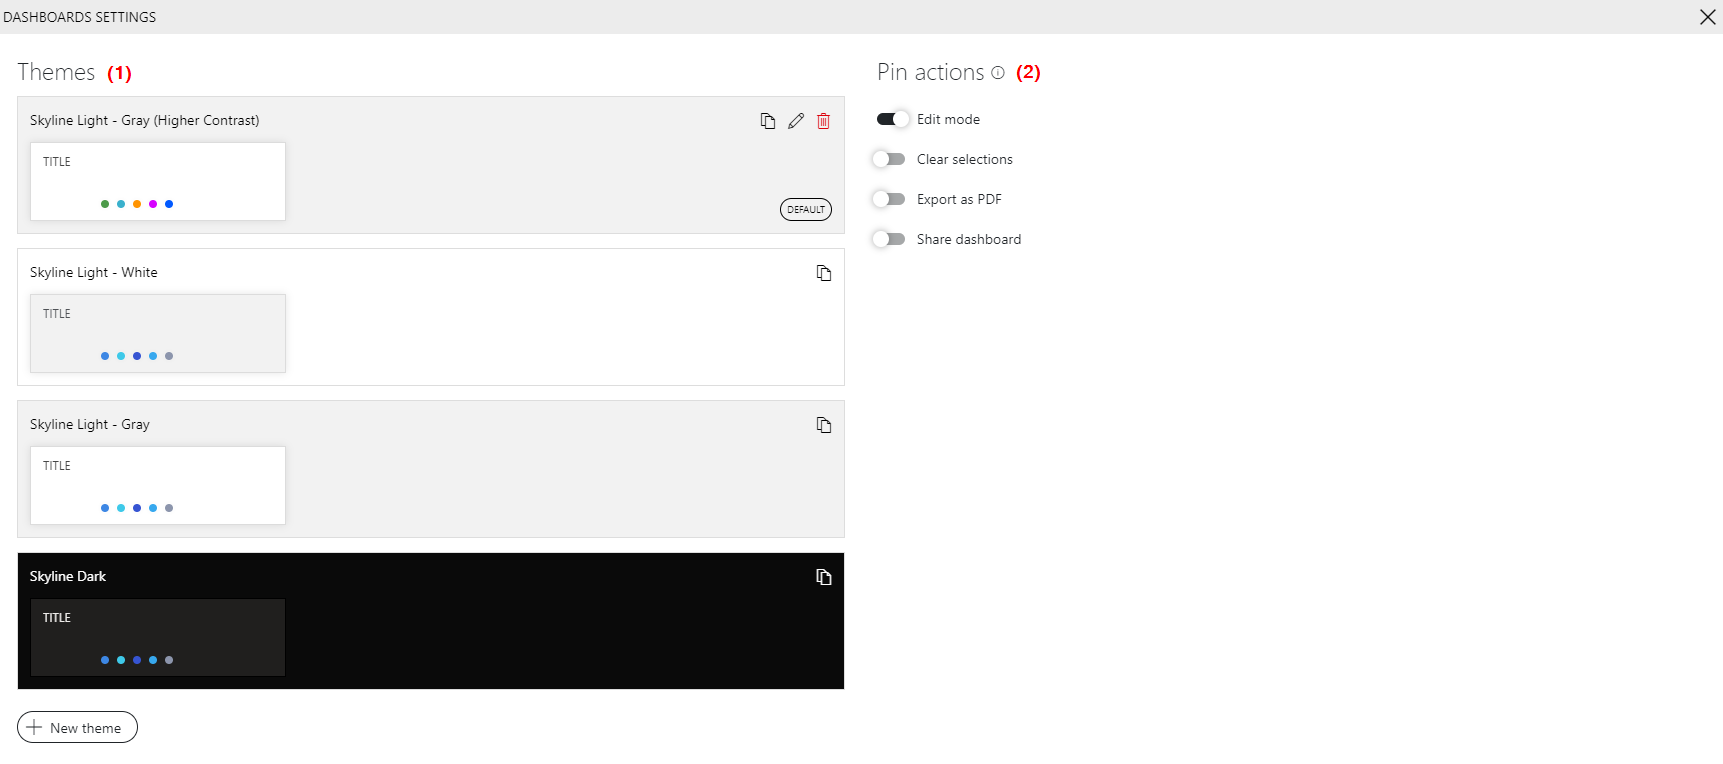
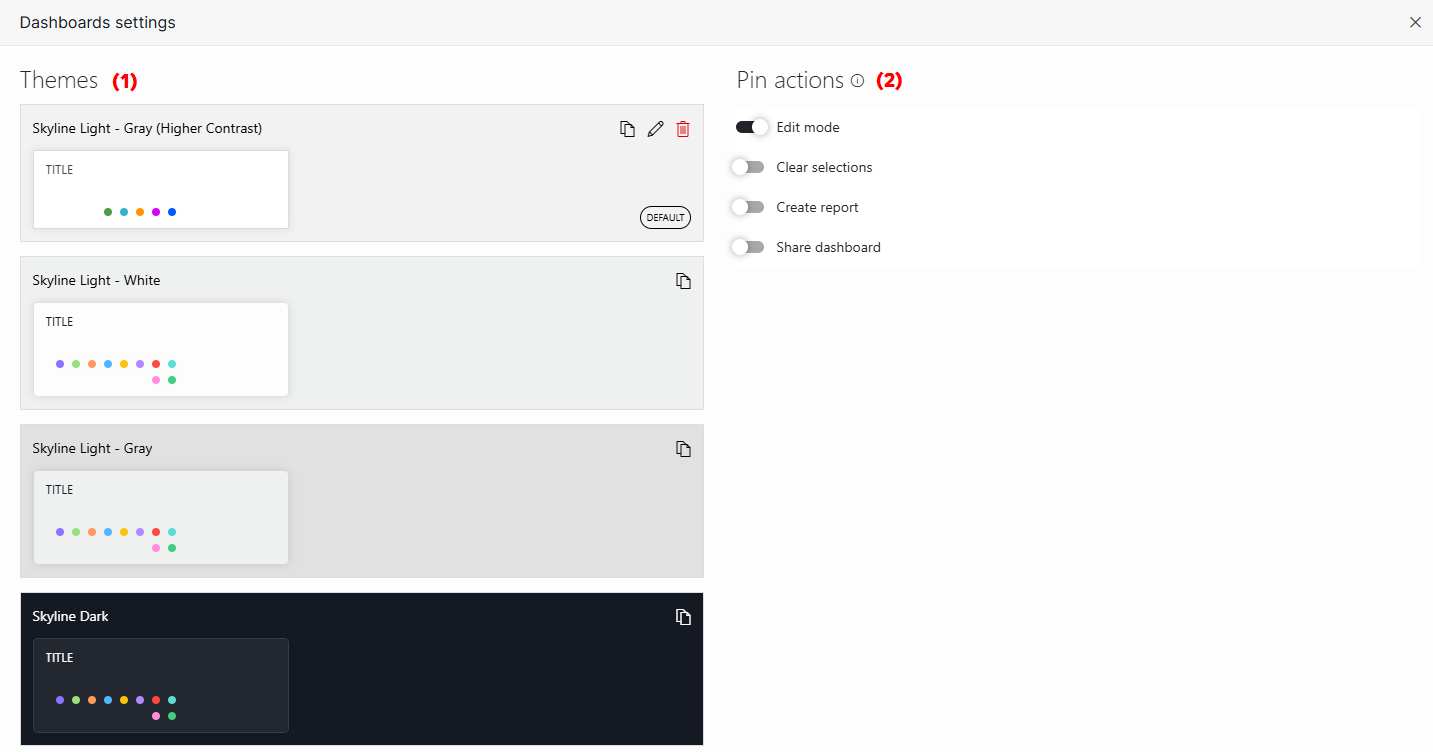
RN 46445

diff --git a/dataminer/Functions/Dashboards_and_Low_Code_Apps/Dashboards_app/Overview_of_the_Dashboards_app_UI.md b/dataminer/Functions/Dashboards_and_Low_Code_Apps/Dashboards_app/Overview_of_the_Dashboards_app_UI.md
@@ -51,9 +51,9 @@ The header bar contains the following items, from left to right:
 
 - User button: A button with the initials or an image of the current user is displayed in the upper-right corner. Click this button to open a menu that provides access to the following options:
 
-  - *(Dashboard) settings*: Allows you to manage any available [dashboard theme](xref:Configuring_the_dashboard_layout) (1) and configure whether [specific actions](#the-dashboards-app-details-pane) are pinned to the dashboard header bar (2).
+  - *(Dashboards) settings*: Allows you to manage any available [dashboard theme](xref:Configuring_the_dashboard_layout) (1) and configure whether [specific actions](#the-dashboards-app-details-pane) are pinned to the dashboard header bar (2).
 
-    ![Dashboard settings](~/dataminer/images/DashboardSettings.png)<br>*Dashboard settings in DataMiner 10.4.10*
+    ![Dashboard settings](~/dataminer/images/DashboardSettings.png)<br>*Dashboard settings in DataMiner 10.6.11*
 
   - *About*: Displays information about the app.
 
